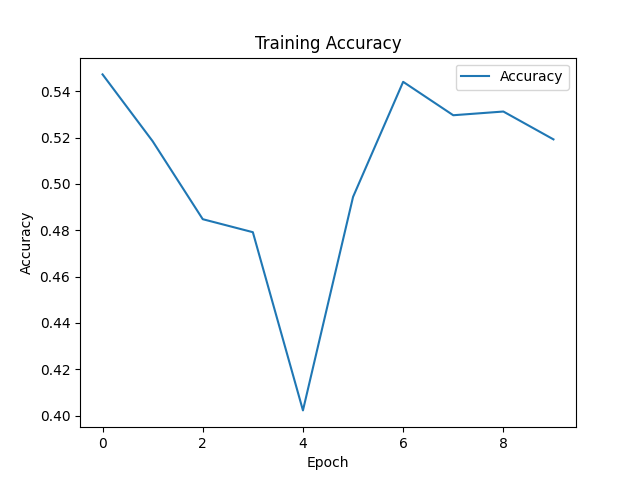
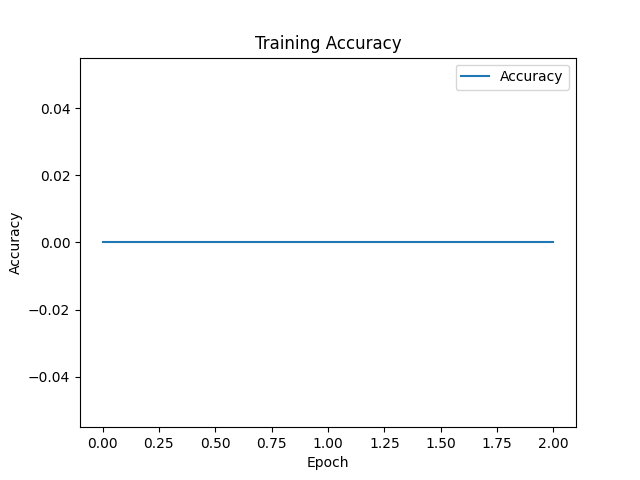
Update to script (doesn't work yet)

diff --git a/project/main.py b/project/main.py
@@ -6,61 +6,87 @@ from src.dataset import ChocolateDataset
 from src.model import SimpleCNN
 from tqdm import tqdm
 import numpy as np
+import seaborn as sns
+from sklearn.metrics import f1_score
+import pandas as pd
+import os
 
+# Update accuracy function to calculate exact match accuracy
 def accuracy_fn(outputs, labels):
-    preds = torch.round(outputs)
-    correct = (preds == labels).float().sum()
-    total = torch.numel(labels)
-    return correct / total
+    preds = torch.round(outputs).int()  # Round predictions to nearest integer
+    correctly_predicted = (preds == labels).all(dim=1)  # Check if all elements in a row match
+    # print(f"Predictions: {preds}, Labels: {labels}")  # Debugging line
+    # print(f"Correctly predicted: {correctly_predicted}")  # Debugging line
+    accuracy = correctly_predicted.sum().item() / len(labels)  # Calculate percentage of exact matches
+    return accuracy
 
 def main():
     transform = transforms.Compose([
         transforms.Resize((224, 224)),
         transforms.ToTensor(),
     ])
-
+    
     train_csv = './data/train.csv'
     train_img_dir = './data/train'
 
-    train_dataset = ChocolateDataset(train_csv, train_img_dir, transform)
-    train_loader = DataLoader(train_dataset, batch_size=8, shuffle=True)
+    # Print when data has been loaded
+    print("Loading training data...")
+    train_dataset = ChocolateDataset(train_csv, train_img_dir, transform = transform)
+    print("Training data loaded.")
+
+    # Split train and test datasets
+    train_size = int(0.8 * len(train_dataset))
+    test_size = len(train_dataset) - train_size
+    train_dataset, test_dataset = torch.utils.data.random_split(train_dataset, [train_size, test_size])
+
+    print("Splitting data into training and testing sets...")
+    train_loader = DataLoader(train_dataset, batch_size=16, shuffle=True)
+    test_loader = DataLoader(test_dataset, batch_size=16, shuffle=False)
+    print("Data split completed.")
 
     device = torch.device('mps' if torch.backends.mps.is_available() else 'cuda' if torch.cuda.is_available() else 'cpu')
     model = SimpleCNN(num_classes=13).to(device)
     criterion = torch.nn.MSELoss()
     optimizer = torch.optim.Adam(model.parameters(), lr=1e-3)
 
-    num_epochs = 10
+    num_epochs = 3
     loss_history = []
     acc_history = []
+    # f1_history = []
 
-    for epoch in tqdm(range(num_epochs)):
+    for epoch in tqdm(range(num_epochs), desc="Training Progress", unit="epoch"):
         model.train()
         running_loss = 0.0
         running_acc = 0.0
-        for batch_idx, (images, labels) in enumerate(train_loader):
+        # running_f1 = 0.0
+        for _, (images, labels) in enumerate(train_loader):
             images, labels = images.to(device), labels.to(device)
+            
             optimizer.zero_grad()
             outputs = model(images)
+            # Ensure labels are converted to float before computing loss
+            labels = labels.float()
             loss = criterion(outputs, labels)
+            
             loss.backward()
             optimizer.step()
+            
             running_loss += loss.item()
-            running_acc += accuracy_fn(outputs.detach().cpu(), labels.cpu()).item()
+            running_acc += accuracy_fn(outputs.detach().cpu(), labels.cpu())
 
-            # Print predictions and ground truth for the first batch of each epoch
-            if batch_idx == 0:
-                preds = torch.round(outputs.detach().cpu()).numpy().astype(int)
-                trues = labels.cpu().numpy().astype(int)
-                print(f"\nEpoch {epoch+1} - First batch predictions vs ground truth:")
-                for i in range(min(3, preds.shape[0])):  # print up to 3 samples
-                    print(f"Pred: {preds[i]} | True: {trues[i]}")
+            # Calculate F1 Score for the batch     
+            assert outputs.shape[0] == labels.shape[0], "Batch size mismatch"
+            # running_f1 += f1_score(true, preds, average='weighted')
+
 
         avg_loss = running_loss / len(train_loader)
         avg_acc = running_acc / len(train_loader)
+        # avg_f1 = running_f1 / len(train_loader)
         loss_history.append(avg_loss)
         acc_history.append(avg_acc)
-        print(f"Epoch {epoch+1}, Loss: {avg_loss:.4f}, Accuracy: {avg_acc:.4f}")
+        # f1_history.append(avg_f1)
+        if epoch % 10 == 0:
+            print(f"Epoch {epoch+1}, Loss: {avg_loss:.4f}, Accuracy: {avg_acc:.4f}") #, F1 Score: {avg_f1:.4f}")
 
     plt.figure()
     plt.plot(loss_history, label='Loss')
@@ -79,6 +105,82 @@ def main():
     plt.legend()
     plt.savefig('accuracy_plot.png')
     print("Saved accuracy_plot.png")
+
+    # # Plot F1 Score
+    # plt.figure()
+    # plt.plot(f1_history, label='F1 Score')
+    # plt.xlabel('Epoch')
+    # plt.ylabel('F1 Score')
+    # plt.title('Training F1 Score')
+    # plt.legend()
+    # plt.savefig('f1_score_plot.png')
+    # print("Saved f1_score_plot.png")
+
+    # Update evaluation logic to handle counts for multi-label predictions
+    model.eval()
+    predictions = []
+    true_labels = []
+
+    with torch.no_grad():
+        for images, labels in test_loader:
+            images, labels = images.to(device), labels.to(device)
+            outputs = model(images)
+            preds = torch.clamp(torch.round(outputs).int(), min=0).cpu().numpy()  # Clamp to ensure no negative values
+            true = labels.cpu().numpy().astype(int)  # Ensure true labels are integers
+            predictions.extend(preds)
+            true_labels.extend(true)
+
+    # Adjust visualization to handle integer counts for multi-output regression
+    plt.figure(figsize=(10, 6))
+    for i in range(len(predictions[0])):  # Iterate over each label
+        sns.histplot([pred[i] for pred in predictions], kde=False, label=f'Predicted Count for Label {i}', alpha=0.5)
+        sns.histplot([true[i] for true in true_labels], kde=False, label=f'True Count for Label {i}', alpha=0.5)
+    plt.xlabel('Class')
+    plt.ylabel('Count')
+    plt.title('Predicted vs True Count Distribution (Multi-Output Regression)')
+    plt.legend()
+    plt.savefig('multi_output_count_distribution.png')
+    print("Saved multi_output_count_distribution.png")
+
+    # Save predictions to CSV in the same format as train.csv
+    predictions = []
+    # Ensure image_ids matches the number of predictions
+    image_ids = [f"L{img_id}" for img_id in test_loader.dataset.indices]
+
+    with torch.no_grad():
+        for images, labels in test_loader:
+            images = images.to(device)
+            outputs = model(images)
+            preds = torch.clamp(torch.round(outputs).int(), min=0).cpu().numpy()  # Clamp to ensure no negative values
+            predictions.extend(preds)
+
+    # Create a DataFrame for predictions
+    columns = ["id", "Jelly White", "Jelly Milk", "Jelly Black", "Amandina", "Crème brulée", "Triangolo", "Tentation noir", "Comtesse", "Noblesse", "Noir authentique", "Passion au lait", "Arabia", "Stracciatella"]
+    predictions_df = pd.DataFrame(predictions, columns=columns[1:])
+    predictions_df.insert(0, "id", image_ids)
+
+    # Save to CSV
+    predictions_df.to_csv("test_predictions.csv", index=False)
+    print("Saved test_predictions.csv")
+
+    # Calculate test set accuracy
+    model.eval()
+    test_accuracy = 0.0
+    num_batches = 0
+
+    with torch.no_grad():
+        for images, labels in test_loader:
+            images, labels = images.to(device), labels.to(device)
+            outputs = model(images)
+            test_accuracy += accuracy_fn(outputs, labels)
+            num_batches += 1
+
+    test_accuracy /= num_batches
+
+    # Save test set accuracy to a text file
+    with open("test_accuracy.txt", "w") as f:
+        f.write(f"Test Set Accuracy: {test_accuracy:.4f}\n")
+    print("Saved test_accuracy.txt")
 
 if __name__ == "__main__":
     main()

diff --git a/project/src/dataset.py b/project/src/dataset.py
@@ -1,5 +1,7 @@
 import os
+import torch
 import pandas as pd
+import numpy as np
 from PIL import Image
 from torch.utils.data import Dataset
 
@@ -18,7 +20,8 @@ class ChocolateDataset(Dataset):
         # Load image
         image = Image.open(img_file).convert("RGB")
         # Get label (all columns except the first)
-        label = self.labels.iloc[idx, 1:].values.astype('float32')
+        label = self.labels.iloc[idx, 1:].values.astype('int')
+        # print(f"Label for image {img_id}: {label}") # This part
         if self.transform:
             image = self.transform(image)
         return image, label

diff --git a/project/src/model.py b/project/src/model.py
@@ -1,5 +1,6 @@
 import torch
 from torch import nn
+import torch.nn.functional as F
 
 class SimpleCNN(nn.Module):
     def __init__(self, num_classes=13):
@@ -18,4 +19,4 @@ class SimpleCNN(nn.Module):
     def forward(self, x):
         x = self.features(x)
         x = self.classifier(x)
-        return x
+        return x  # Output raw continuous values for regression
